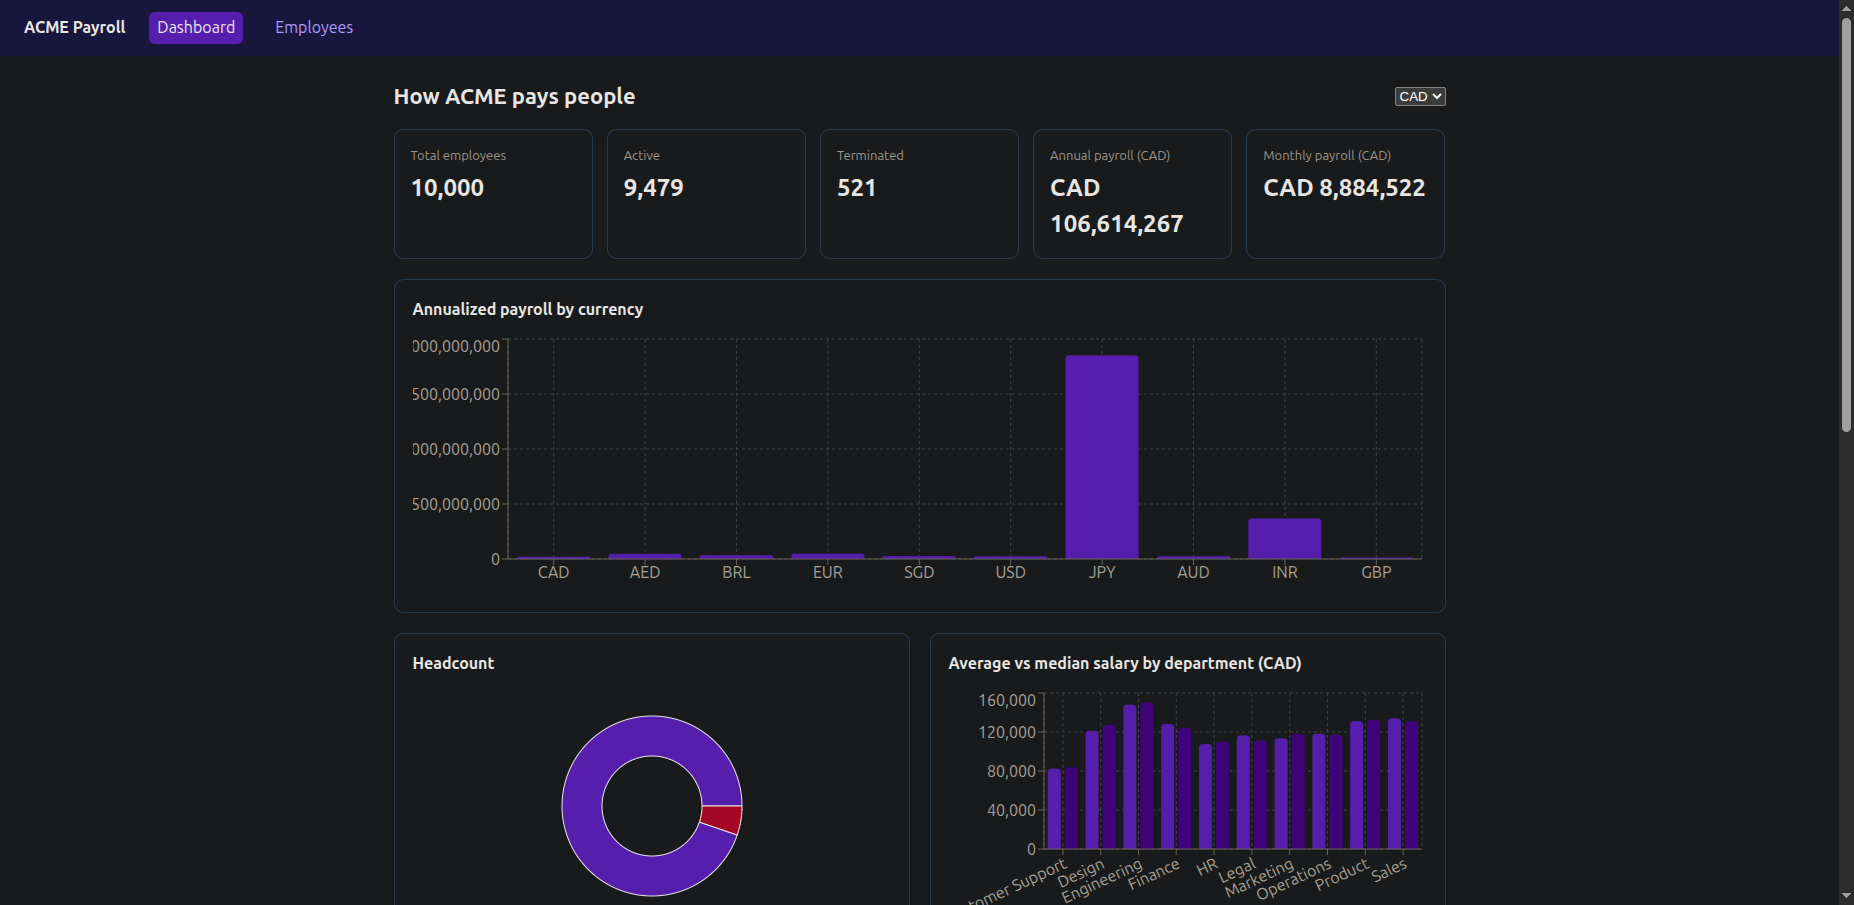
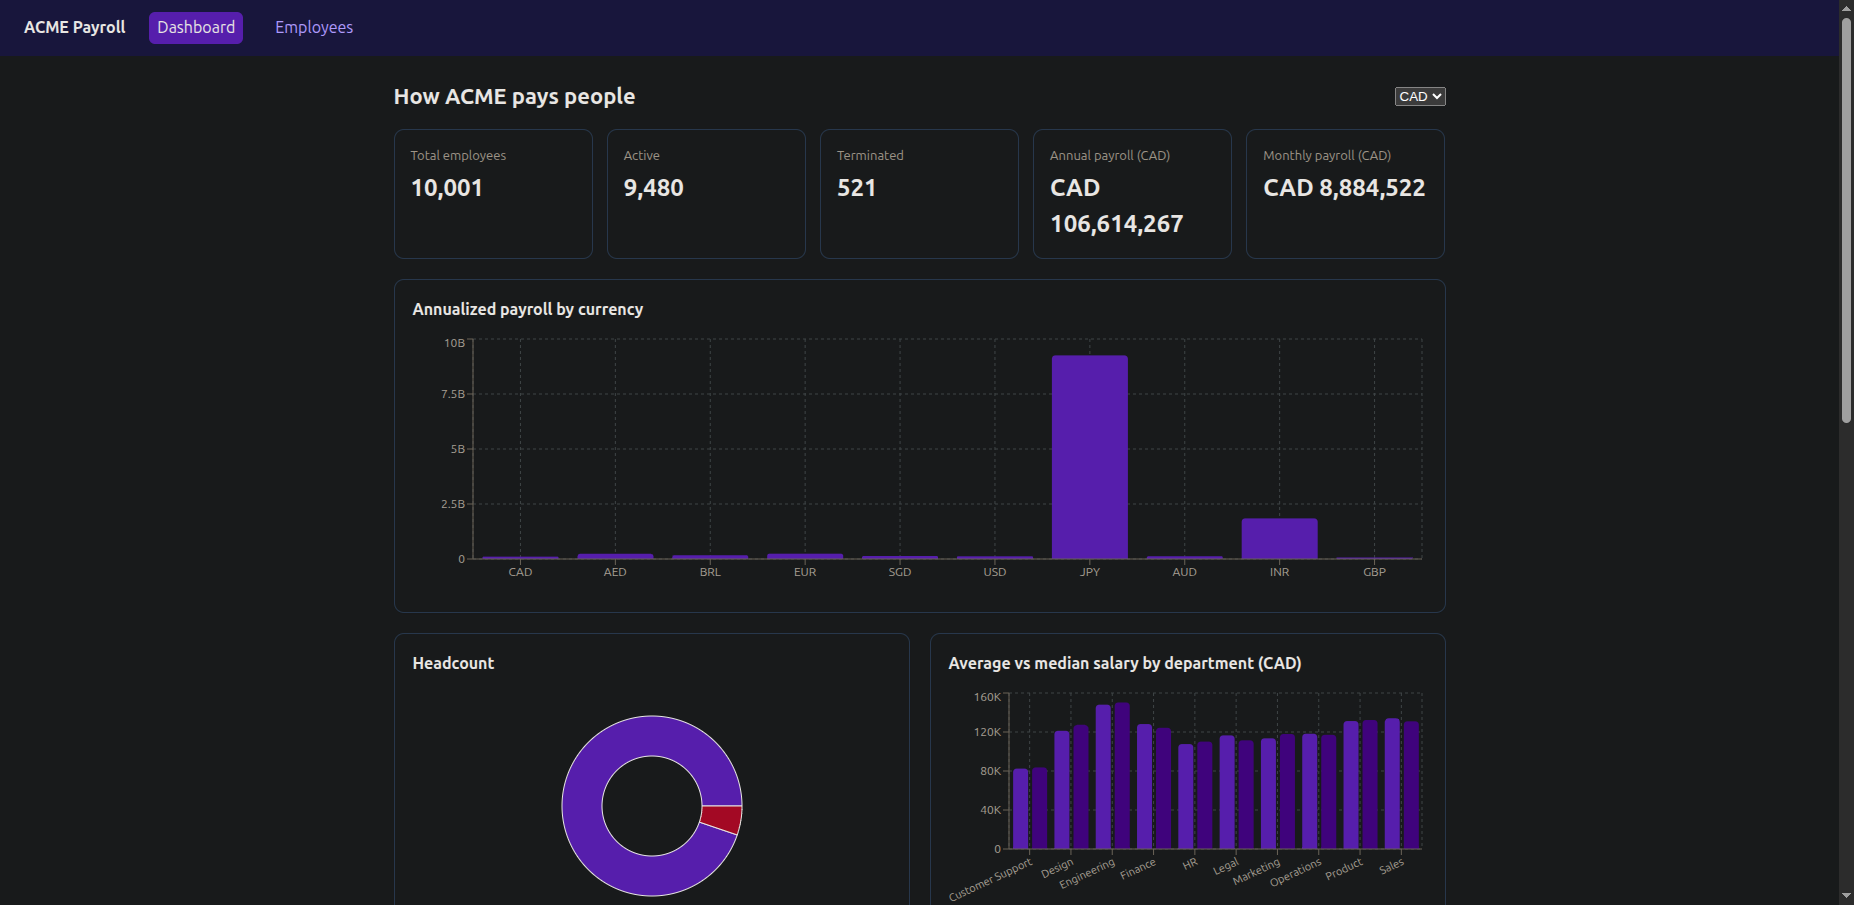
fix: compact chart axes and horizontal salary distribution for readability

diff --git a/frontend/src/pages/DashboardPage.tsx b/frontend/src/pages/DashboardPage.tsx
@@ -14,7 +14,7 @@ import {
 } from 'recharts'
 import { api } from '../api/client'
 import type { PayrollSummary } from '../api/types'
-import { formatMoney, formatNumber } from '../lib/format'
+import { formatBand, formatCompact, formatMoney, formatNumber } from '../lib/format'
 
 const PIE_COLORS = ['#6d28d9', '#f43f5e']
 const BAR_COLORS = ['#6d28d9', '#c084fc']
@@ -101,8 +101,8 @@ export default function DashboardPage() {
           <ResponsiveContainer width="100%" height={260}>
             <BarChart data={payrollData}>
               <CartesianGrid strokeDasharray="3 3" />
-              <XAxis dataKey="currency" />
-              <YAxis tickFormatter={(v) => formatNumber(v)} width={90} />
+              <XAxis dataKey="currency" tick={{ fontSize: 12 }} />
+              <YAxis tickFormatter={(v) => formatCompact(v as number)} width={55} tick={{ fontSize: 12 }} />
               <Tooltip formatter={(v) => formatNumber(v as number)} />
               <Bar dataKey="annualized" fill="#6d28d9" radius={[4, 4, 0, 0]} />
             </BarChart>
@@ -127,8 +127,8 @@ export default function DashboardPage() {
           <ResponsiveContainer width="100%" height={260}>
             <BarChart data={departmentData}>
               <CartesianGrid strokeDasharray="3 3" />
-              <XAxis dataKey="name" angle={-25} textAnchor="end" interval={0} height={70} />
-              <YAxis tickFormatter={(v) => formatNumber(v)} width={90} />
+              <XAxis dataKey="name" angle={-25} textAnchor="end" interval={0} height={70} tick={{ fontSize: 11 }} />
+              <YAxis tickFormatter={(v) => formatCompact(v as number)} width={55} tick={{ fontSize: 12 }} />
               <Tooltip formatter={(v) => formatNumber(v as number)} />
               <Legend />
               <Bar dataKey="Average" fill={BAR_COLORS[0]} radius={[4, 4, 0, 0]} />
@@ -139,13 +139,19 @@ export default function DashboardPage() {
 
         <div className="card">
           <h2>Salary distribution ({currency})</h2>
-          <ResponsiveContainer width="100%" height={260}>
-            <BarChart data={distributionData}>
+          <ResponsiveContainer width="100%" height={300}>
+            <BarChart data={distributionData} layout="vertical" margin={{ left: 8, right: 16 }}>
               <CartesianGrid strokeDasharray="3 3" />
-              <XAxis dataKey="label" interval={0} angle={-40} textAnchor="end" height={80} />
-              <YAxis />
+              <XAxis type="number" allowDecimals={false} tick={{ fontSize: 12 }} />
+              <YAxis
+                type="category"
+                dataKey="label"
+                tickFormatter={formatBand}
+                width={95}
+                tick={{ fontSize: 11 }}
+              />
               <Tooltip formatter={(v) => formatNumber(v as number)} />
-              <Bar dataKey="count" fill="#6d28d9" radius={[4, 4, 0, 0]} />
+              <Bar dataKey="count" fill="#6d28d9" radius={[0, 4, 4, 0]} />
             </BarChart>
           </ResponsiveContainer>
         </div>

diff --git a/frontend/src/lib/format.ts b/frontend/src/lib/format.ts
@@ -17,3 +17,19 @@ export function formatDate(date: string | undefined | null): string {
     day: 'numeric',
   })
 }
+
+// Compact form for chart axes: 2500000 -> "2.5M", 1200000000 -> "1.2B".
+export function formatCompact(value: number | string | undefined | null): string {
+  if (value === undefined || value === null || value === '') return '—'
+  return new Intl.NumberFormat(undefined, {
+    notation: 'compact',
+    maximumFractionDigits: 1,
+  }).format(Number(value))
+}
+
+// Distribution band labels come from the API as "44583–61702"; compact both ends.
+export function formatBand(label: string): string {
+  const [low, high] = label.split('–')
+  if (high === undefined) return formatCompact(label)
+  return `${formatCompact(low)}–${formatCompact(high)}`
+}
